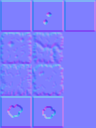
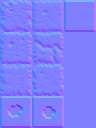
Change ligthing method and clean up lighting code

diff --git a/light.cpp b/light.cpp
@@ -24,50 +24,6 @@ along with this program.  If not, see <http://www.gnu.org/licenses/>.
 
 using namespace sf;
 
-Light::Light(int radius, Vector3f falloff
-             , Color color, Vector2f position) {
-    this->radius = radius;
-    this->falloff = falloff;
-    this->centerColor = color;
-    this->position = position;
-}
-
-int Light::getRadius() {
-    return radius;
-}
-
-Color Light::getColorAt(Vector2f pixelPosition) {
-    Vector2f dif = position - pixelPosition;
-    float dist = sqrt(dif.x * dif.x
-                      + dif.y * dif.y);
-
-    if (dist > radius) {
-        return Color(0,0,0); // Neutral color
-    }
-    // Intensity determined by falloff
-    float relativeIntensity =
-        1.0f / (falloff.x
-                + falloff.y * dist
-                + falloff.z * dist * dist);
-    // Intensity determined by linear distance from the
-    // center. Is this needed?
-    float circleIntensity = 1.0f - (dist / radius);
-    float intensity = relativeIntensity * circleIntensity;
-
-    Color colorAtPos;
-    colorAtPos.r = (Uint8) ((float) (centerColor.r) * intensity);
-    colorAtPos.g = (Uint8) ((float) (centerColor.g) * intensity);
-    colorAtPos.b = (Uint8) ((float) (centerColor.b) * intensity);
-
-    colorAtPos.a = centerColor.a;
-
-    return colorAtPos;
-}
-
-Vector2f Light::getPosition() {
-    return position;
-}
-
 void LightManager::initialize(const char* lightMapFilePath
                               , int tileWidth
                               , int tileHeight) {
@@ -75,18 +31,22 @@ void LightManager::initialize(const char* lightMapFilePath
     lightShader.loadFromFile("shaders/light.frag", Shader::Fragment);
     lightMultiplierShader.loadFromFile("shaders/lightMultiplier.frag"
                                        , Shader::Fragment);
+
+    // Setup rectangle
+    Image onePix;
+    onePix.create(1,1, Color::White);
+    onePixTex.loadFromImage(onePix);
+    onePixTex.setRepeated(true);
+    rect.setTexture(&onePixTex);
     
-    ambientColor = Color(80, 80, 80, 255);
-    lightTexture.create(1000, 1000);
+    ambientColor = Color(90, 90, 90, 255);
     
     Vector3f falloff;
     falloff.x = 1.2f; // Constant falloff
     falloff.y = 0.0005f; // Linear falloff
-    falloff.z = 0.0000002f; // Quadratic falloff
-
-    standardLightTexture
-        = generateLightTexture(500, Color(255,255,255,255)
-                               , falloff);
+    falloff.z = 0.0000002f; // Quadratic falloff 
+    int size = 1000;
+    float lightHeight = 100.0f;
     
     // Read the positions of the lamps from the map
     std::ifstream map(lightMapFilePath);
@@ -102,12 +62,16 @@ void LightManager::initialize(const char* lightMapFilePath
             map >> r >> g >> b;
             if (!(r == 0 && g == 0
                   && b == 0)) { // Lamp
-                Sprite light;
-                light.setTexture(standardLightTexture);
-                light.setColor(Color(r,g,b));
-                light.setPosition(x * tileWidth
-                                  , y * tileHeight);
-                light.setOrigin(500, 500);
+                Light light;
+                light.color = Color(r, g, b);
+                light.center = Vector2f(x * tileWidth
+                                        , y * tileHeight);
+                light.rect = FloatRect(light.center.x - (size / 2)
+                                       , light.center.y - (size / 2)
+                                       , size, size);
+                light.height = lightHeight;
+                light.falloff = falloff;                    
+                mapLights.push_back(&light);
                 lights.push_back(light);
             }
         }
@@ -127,14 +91,10 @@ void LightManager::draw(RenderTexture* diffuse
     lightTexture.setView(currentView);
     lightTexture.clear(ambientColor);
 
+    int lightsn = 0;
     for (int i = 0; i < lights.size(); i++) {
-        Vector2f lightCenter = lights[i].getPosition()
-            , lightSize = Vector2f(standardLightTexture.getSize().x
-                                   , standardLightTexture.getSize().y);
-        FloatRect lightRect =
-            FloatRect(lightCenter.x - (lightSize.x / 2.0f)
-                      , lightCenter.y - (lightSize.y / 2.0f)
-                      , lightSize.x, lightSize.y);
+        Vector2f lightCenter = lights[i].center;
+        FloatRect lightRect = lights[i].rect;
         if (lightRect.intersects(viewRect)) {
             lightShader.setParameter("normalTex", normal->getTexture()); 
             // Tex position of the lamp
@@ -143,20 +103,25 @@ void LightManager::draw(RenderTexture* diffuse
             texPos.x /= (float) viewRect.width;
             texPos.y /= (float) viewRect.height;
 
+            // Calculate intersecting rectangle
+            FloatRect intersect = intersectingRectangle(lightRect, viewRect);
+
             // Set the parameters
             lightShader.setParameter("texPos", texPos);
             lightShader.setParameter("normalTexSize", Vector2f(viewRect.width
                                                          , viewRect.height));
-            lightShader.setParameter("texSize", lightSize);
-            Vector2f dLightPos = lightCenter - Vector2f(viewRect.left, viewRect.top);
-            dLightPos.x /= (float) viewRect.width;
-            dLightPos.y /= (float) viewRect.height;
-            lightShader.setParameter("lightPos", Vector3f(dLightPos.x, dLightPos.y
-                                                          , 0.3f));
+            lightShader.setParameter("texSize", Vector2f(lightRect.width, lightRect.height));
+            lightShader.setParameter("lightHeight", lights[i].height);
+            lightShader.setParameter("falloff", lights[i].falloff);
+            lightShader.setParameter("lightColor", lights[i].color);
+
+            rect.setSize(Vector2f(lightRect.width, lightRect.height));
+            rect.setPosition(lightRect.left, lightRect.top);
+
             RenderStates states;
             states.shader = &lightShader;
             states.blendMode = BlendAdd;
-            lightTexture.draw(lights[i], states);
+            lightTexture.draw(rect, states);
         }
     }
     lightTexture.display();
@@ -167,99 +132,26 @@ void LightManager::draw(RenderTexture* diffuse
 
     lightMultiplierShader.setParameter("lightTex", lightTexture.getTexture());
     window->draw(lightSprite, &lightMultiplierShader);
-
-
-    // Vector2f viewTopRight = Vector2f(viewRect.left
-    //                                  , viewRect.top);
-    // Color ambientLight = Color(30,30,30);
-    // Image canvas = window->capture();
-    // for (int y = 0; y < viewSize.y; y++) {
-    //     for (int x = 0; x < viewSize.x; x++) {
-    //         Color pixelColor = canvas.getPixel(x, y);
-    //         if (!(pixelColor.r == 0
-    //         swsddddddddddddddddddd      && pixelColor.g == 0
-    //               && pixelColor.b == 0)) {
-    //             Vector2f pixelPosition = Vector2f((float) x + 0.5f
-    //                                               , (float) y + 0.5f);
-    //             Color lightColor = ambientLight;
-    //             for (int i = 0; i < lightsInView.size(); i++) {
-    //                 Color extraLight = lightsInView[i]
-    //                     .getColorAt(pixelPosition + viewTopRight);
-    //                 lightColor.r += extraLight.r;
-    //                 lightColor.g += extraLight.g;
-    //                 lightColor.b += extraLight.b;
-    //             }
-    //             pixelColor.r *= ((float) (lightColor.r)
-    //                              / 255.0f);
-    //             pixelColor.g *= ((float) (lightColor.g)
-    //                              / 255.0f);
-    //             pixelColor.b *= ((float) (lightColor.b)
-    //                              / 255.0f);
-    //             canvas.setPixel(x, y, pixelColor);
-    //         }
-    //     }
-    // }
-    // drawTexture.loadFromImage(canvas);
-    // drawSprite.setTexture(drawTexture);
-    // drawSprite.setPosition(viewRect.left, viewRect.top);
-    // drawSprite.setTextureRect(
-    //     IntRect(0, 0
-    //             , drawTexture.getSize().x
-    //             , drawTexture.getSize().y));
-    // window->draw(drawSprite);
 }
 
 void LightManager::setScreenSize(int x, int y) {
     lightTexture.create(x, y);
 }
 
-Texture generateLightTexture(int radius
-                             , Color centerColor
-                             , Vector3f falloff
-                             // (constant, linear, quadratic)
-    ) {
-    Image image;
-    image.create(radius * 2, radius * 2
-                 , Color(0,0,0,1));
-    Vector2f center = Vector2f(radius, radius);
-    float radiusSquared = radius * radius; // That efficiency
-    for (int y = 0; y < radius * 2; y++) {
-        for (int x = 0; x < radius * 2; x++) {
-            // The position used is the center of
-            // the pixel
-            Vector2f position = Vector2f(x + 0.5f
-                                         , y + 0.5f);
-            Vector2f distance = position - center;
-            float lengthSquared = distance.x * distance.x
-                + distance.y * distance.y;
-            // Only change color if the pixel is in the
-            // light circle
-            if (lengthSquared <= radiusSquared) {
-                float dist= sqrt(lengthSquared);
-                float relativeIntensity =
-                    1.0f / (falloff.x
-                            + falloff.y * dist
-                            + falloff.z * dist * dist);
-                float blurIntensity = 1.0f - sqrt(sqrt(lengthSquared)
-                                                  / radius);
-                                               
-                Color currentColor;
+// Returns an 0 by 0 rectangle at the position (0,0)
+// if the rectangles don't intersects
+// Otherwise the smallest intersecting rectangle will be returned
+FloatRect intersectingRectangle(FloatRect rect1
+                                 , FloatRect rect2) {
+    if (!rect1.intersects(rect2))
+        return FloatRect(0,0,0,0);
+    
+    float x1 = std::max(rect1.left, rect2.left);
+    float x2 = std::min(rect1.left + rect1.width
+                        , rect2.left + rect2.width);
+    float y1 = std::max(rect1.top, rect2.top);
+    float y2 = std::min(rect1.top + rect1.height
+                        , rect2.top + rect2.height);
 
-                currentColor.r
-                    = (Uint8) ((float) (centerColor.r) *
-                               relativeIntensity * blurIntensity);
-                currentColor.g
-                    = (Uint8) ((float) (centerColor.g) *
-                               relativeIntensity * blurIntensity);
-                currentColor.b
-                    = (Uint8) ((float) (centerColor.b) *
-                               relativeIntensity * blurIntensity);
-
-                image.setPixel(x, y, currentColor);
-            }
-        }
-    }
-    Texture newLightTexture;
-    newLightTexture.loadFromImage(image);
-    return newLightTexture;
+    return FloatRect(x1, y1, x2 - x1, y2 - y1);
 }

diff --git a/light.h b/light.h
@@ -19,18 +19,13 @@ along with this program.  If not, see <http://www.gnu.org/licenses/>.
 #include <SFML/Graphics.hpp>
 #include <vector>
 
-class Light {
-public:
-    Light(int radius, sf::Vector3f falloff
-          , sf::Color color, sf::Vector2f position);
-    int getRadius();
-    sf::Color getColorAt(sf::Vector2f pixelPosition);
-    sf::Vector2f getPosition();
-private:
-    sf::Color centerColor;
-    int radius;
+
+struct Light {
+    sf::Color color;
+    sf::FloatRect rect;
+    sf::Vector2f center;
     sf::Vector3f falloff;
-    sf::Vector2f position;
+    float height;
 };
 
 class LightManager {
@@ -46,19 +41,15 @@ public:
 private:
     sf::Shader lightShader
         , lightMultiplierShader;
-    std::vector<sf::Sprite> lights;
-    sf::Texture standardLightTexture
-        , texture;
+    std::vector<Light*> mapLights;
+    std::vector<Light> lights;
+    sf::Texture onePixTex;
+    sf::RectangleShape rect;
     sf::Sprite lightSprite;
     sf::RenderTexture lightTexture;
     sf::Color ambientColor;
-    // std::vector<Light> lights;
-    // sf::Texture drawTexture;
-    // sf::Sprite drawSprite;
 };
 
-sf::Texture generateLightTexture(int radius
-                             , sf::Color centerColor
-                             , sf::Vector3f falloff
-                             // (constant, linear, quadratic)
-    );
+// Returns null if rectangles don't intersect
+sf::FloatRect intersectingRectangle(sf::FloatRect rect1
+                                     , sf::FloatRect rect2);

diff --git a/groundTileMap.cpp b/groundTileMap.cpp
@@ -65,9 +65,10 @@ void groundTileMap::genGroundTileMap (const char* filename
                 int tilesAmmount = 4;
                 cornerTextureY += tilesHeight * (rand() % tilesAmmount);
                 int tilesAmmountX = 2;
-                cornerTextureX += tilesWidth * (rand() % tilesAmmountX);
-                cornerTextureY = (1 + rand() % 2) * tilesHeight;
-                // cornerTextureX = 1 * tilesWidth;
+                cornerTextureX = tilesWidth * (rand() % tilesAmmountX);
+                cornerTextureY = (0 + rand() % 3) * tilesHeight;
+                // cornerTextureX = 0;
+                // cornerTextureY = 0;
             }
             if (tileNum == 1) { // wall
                 cornerTextureX = 2 * tilesWidth;
